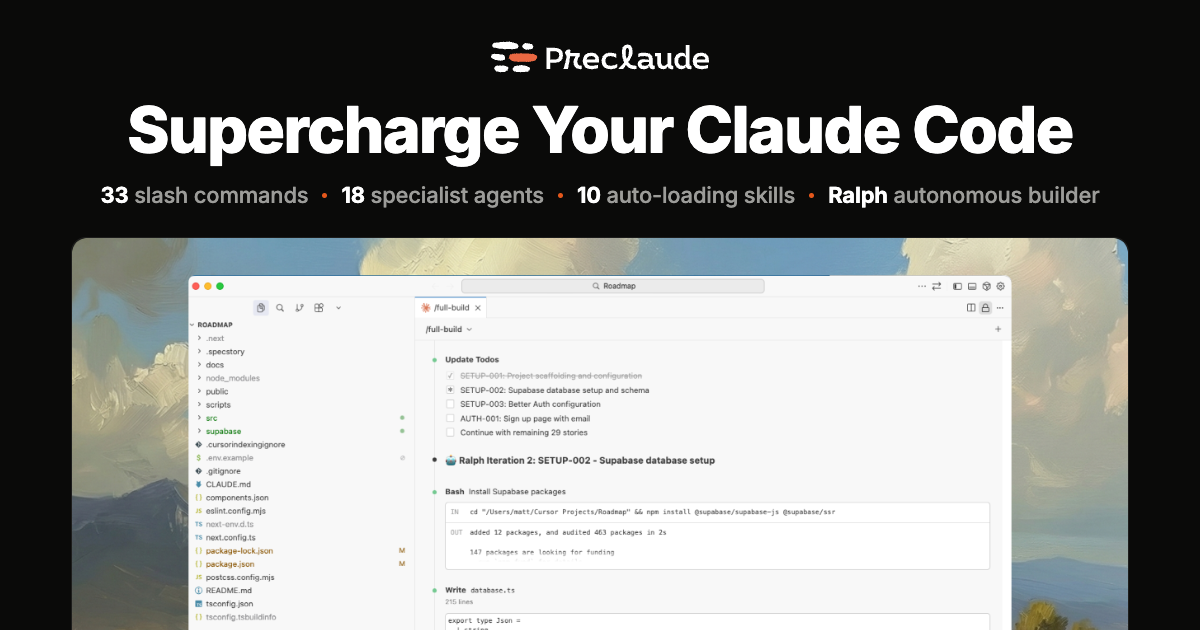
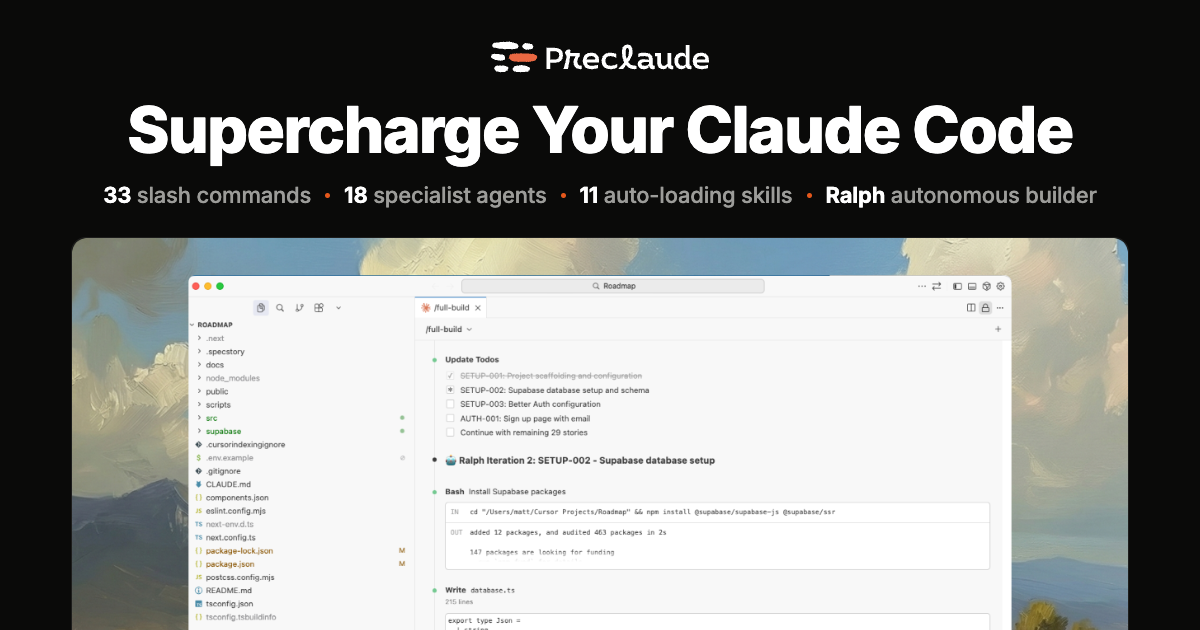
feat(skills): add fable-build — Fable 5 scaffolds, Opus/Sonnet build
New skill with two modes:
- Claude Code: Fable produces architecture, interface contracts, file
  skeletons and an atomic task plan, then delegates implementation to
  Opus/Sonnet subagents and reviews every diff against its contract
- API code: the Anthropic advisor tool (beta advisor-tool-2026-03-01) —
  a Sonnet/Opus executor consults a claude-fable-5 advisor
  mid-generation; reference.md carries the full parameter table,
  tested system-prompt blocks, caching/cost guidance and gotchas

Counts synced to 11 skills across README, landing (incl. new modal
entry), plugin manifests (v2.2.0) and the OG image.

Changed region(s): [[0.0617, 0.3016, 0.925, 0.3317]]

diff --git a/landing/app/page.tsx b/landing/app/page.tsx
@@ -997,13 +997,26 @@ const skills: Command[] = [
     whatItDoes: ["Configures the database adapter correctly", "Runs migrations with the right CLI", "Wires client and server halves properly"],
     example: '"Add authentication with Better Auth and Supabase"'
   },
+  {
+    name: "fable-build",
+    desc: "Fable 5 scaffolds the architecture, Opus/Sonnet carry out the build",
+    fullDescription: "A multi-model build pattern: Claude Fable 5 makes the decisions — architecture, interface contracts, file skeletons, atomic task plan — while Opus/Sonnet subagents type the implementation. Includes the Anthropic advisor-tool pattern for the same split in API code: a Sonnet/Opus executor consults a Fable 5 advisor mid-generation.",
+    whenToUse: ["\"Scaffold with Fable, build with Sonnet\"", "Features where planning quality matters more than who types the code", "Adding the advisor tool to a script or product"],
+    whatItDoes: [
+      "Fable produces contracts, skeletons, and an atomic task plan",
+      "Delegates tasks to Opus/Sonnet builders with explicit contracts",
+      "Reviews every diff against its contract before declaring done",
+      "In API code: advisor_20260301 with claude-fable-5 advising a claude-sonnet-5 executor"
+    ],
+    example: '"/fable-build add multi-tenant billing"\n# Fable scaffolds → sonnet builders implement → Fable reviews'
+  },
 ];
 
 // FAQ Data
 const faqs = [
   {
     question: "What is Preclaude?",
-    answer: "Preclaude is a pre-configured setup for Claude Code that includes 33 slash commands, 18 specialist agents, 10 auto-loading skills, and Ralph - an autonomous builder. It supercharges your Claude Code experience with production-ready workflows."
+    answer: "Preclaude is a pre-configured setup for Claude Code that includes 33 slash commands, 18 specialist agents, 11 auto-loading skills, and Ralph - an autonomous builder. It supercharges your Claude Code experience with production-ready workflows."
   },
   {
     question: "How do I install Preclaude?",
@@ -1031,7 +1044,7 @@ const faqs = [
   },
   {
     question: "What are the auto-loading skills?",
-    answer: "Ten packages of expertise Claude loads when the job matches: PRD generation, Ralph task conversion, project kickoff and completion, CLAUDE.md learning, marketing content, competitive landscape reports, browser-based visual verification (Playwright), and Better Auth setup with every gotcha handled."
+    answer: "Eleven packages of expertise Claude loads when the job matches: PRD generation, Ralph task conversion, project kickoff and completion, CLAUDE.md learning, marketing content, competitive landscape reports, browser-based visual verification (Playwright), Better Auth setup with every gotcha handled, and a multi-model build pattern where Fable 5 scaffolds and Opus/Sonnet carry out the build."
   },
   {
     question: "What is the marketing engine?",
@@ -1296,7 +1309,7 @@ export default function Home() {
               variants={fadeInUp}
               className="text-base sm:text-xl text-[#ADADA9] max-w-[780px] leading-relaxed px-2"
             >
-              33 slash commands, 18 specialist agents, 10 auto-loading skills, and Ralph autonomous builder — all pre-configured and ready to use.
+              33 slash commands, 18 specialist agents, 11 auto-loading skills, and Ralph autonomous builder — all pre-configured and ready to use.
             </motion.p>
 
             {/* Install Command */}
@@ -1571,7 +1584,7 @@ export default function Home() {
           >
             <motion.div variants={fadeInUp} className="text-center mb-10 sm:mb-16">
               <h2 className="text-2xl sm:text-4xl md:text-5xl font-bold mb-3 sm:mb-4 leading-[1.1]">
-                <span className="text-white">10</span> Auto-Loading Skills
+                <span className="text-white">11</span> Auto-Loading Skills
               </h2>
               <p className="text-base sm:text-xl text-[#ADADA9] max-w-2xl mx-auto">
                 Expertise Claude picks up by itself when the task matches — no command needed.

diff --git a/landing/app/layout.tsx b/landing/app/layout.tsx
@@ -18,7 +18,7 @@ const jetbrains = JetBrains_Mono({
 export const metadata: Metadata = {
   title: "Preclaude - Supercharge Your Claude Code",
   description:
-    "33 slash commands, 18 specialist agents, 10 auto-loading skills, and Ralph autonomous builder — all pre-configured and ready to use.",
+    "33 slash commands, 18 specialist agents, 11 auto-loading skills, and Ralph autonomous builder — all pre-configured and ready to use.",
   icons: {
     icon: "/favicon.png",
     apple: "/apple-icon.png",
@@ -26,7 +26,7 @@ export const metadata: Metadata = {
   openGraph: {
     title: "Preclaude - Supercharge Your Claude Code",
     description:
-      "33 slash commands, 18 specialist agents, 10 auto-loading skills, and Ralph autonomous builder — all pre-configured and ready to use.",
+      "33 slash commands, 18 specialist agents, 11 auto-loading skills, and Ralph autonomous builder — all pre-configured and ready to use.",
     type: "website",
     images: [
       {
@@ -41,7 +41,7 @@ export const metadata: Metadata = {
     card: "summary_large_image",
     title: "Preclaude - Supercharge Your Claude Code",
     description:
-      "33 slash commands, 18 specialist agents, 10 auto-loading skills, and Ralph autonomous builder — all pre-configured and ready to use.",
+      "33 slash commands, 18 specialist agents, 11 auto-loading skills, and Ralph autonomous builder — all pre-configured and ready to use.",
     images: ["/opengraph-image.png"],
   },
 };

diff --git a/skills/fable-build/reference.md b/skills/fable-build/reference.md
@@ -1,0 +1,98 @@
+# Advisor Tool — API Reference (for fable-build Mode B)
+
+Condensed from the official docs (platform.claude.com → agents-and-tools/tool-use/advisor-tool, fetched 2026-07). Beta: include header `advisor-tool-2026-03-01` (SDKs: `betas: ["advisor-tool-2026-03-01"]` on `client.beta.messages.*`).
+
+## Tool definition parameters
+
+| Parameter | Type | Default | Notes |
+|---|---|---|---|
+| `type` | string | *required* | Must be `"advisor_20260301"` |
+| `name` | string | *required* | Must be `"advisor"` |
+| `model` | string | *required* | Advisor model ID (e.g. `claude-fable-5`, `claude-opus-4-8`). Billed at this model's rates for the sub-inference |
+| `max_uses` | int | unlimited | Per-request cap. Exceeding it returns `advisor_tool_result_error` with `max_uses_exceeded`; the executor continues without advice |
+| `max_tokens` | int | advisor's output cap | Caps advisor output (thinking + text) per call. Min 1024. **Recommended: 2048** — ~7x less advisor output with near-zero truncation and no measured quality loss. The server tells the advisor its remaining budget so it shapes the response to fit. Truncation appends `[Advisor output truncated at max_tokens=N.]` and sets `stop_reason: "max_tokens"` on the result |
+| `caching` | object\|null | off | `{"type": "ephemeral", "ttl": "5m" \| "1h"}` — caches the advisor's own transcript across calls in a conversation. Breaks even at ~3 advisor calls; keep off for short tasks; never toggle mid-conversation |
+
+## Model compatibility (advisor must be ≥ executor)
+
+| Executor | Valid advisors |
+|---|---|
+| `claude-haiku-4-5`, `claude-sonnet-4-6` | Fable 5, Mythos 5, Opus 4.8/4.7/4.6, Sonnet 4.6 |
+| `claude-sonnet-5` | Fable 5, Mythos 5, Opus 4.8/4.7 |
+| `claude-opus-4-6` | Fable 5, Mythos 5, Opus 4.8/4.7/4.6 |
+| `claude-opus-4-7` / `claude-opus-4-8` | Fable 5, Mythos 5, Opus 4.8/4.7 |
+| `claude-fable-5` | Fable 5 only |
+
+Invalid pair → `400 invalid_request_error` naming the combination.
+
+## How a call works
+
+1. Executor emits `server_tool_use` with `name: "advisor"` and **empty `input`** (the executor signals timing; the server supplies context — nothing the executor puts in input reaches the advisor).
+2. Server runs the advisor model with its own Anthropic system prompt + the executor's full transcript (your system prompt, tools, prior turns, tool results, text so far).
+3. Result returns as an `advisor_tool_result` block; the executor continues. The advisor runs without tools; its thinking is dropped — only advice text reaches the executor.
+
+## Result variants
+
+| Variant | Fields | When |
+|---|---|---|
+| `advisor_result` | `text`, `stop_reason`* | Advisor returns plaintext (Opus/Sonnet advisors) |
+| `advisor_redacted_result` | `encrypted_content`, `stop_reason`* | **Fable 5 / Mythos 5 advisors** — opaque blob; the server decrypts it into the executor's prompt next turn |
+
+*`stop_reason` present only when `max_tokens` is set on the tool definition. Round-trip content verbatim on subsequent turns; branch on `content.type` if switching advisor models mid-conversation.
+
+## Errors (result-level; the request itself succeeds)
+
+`max_uses_exceeded` · `too_many_requests` (advisor rate-limited — draws from the advisor model's own bucket) · `overloaded` · `prompt_too_long` · `execution_time_exceeded` · `unavailable`. The executor sees the error and continues without advice. An executor rate limit, by contrast, fails the whole request with HTTP 429.
+
+## Multi-turn rules
+
+- Append the **full** assistant content (including `advisor_tool_result` blocks) back to `messages` each turn.
+- Omitting the advisor tool from `tools` while history contains advisor blocks → 400. To cap advisor spend conversation-wide: count calls client-side, then remove the tool **and** strip all `advisor_tool_result` blocks from history.
+- **`pause_turn`**: a response can end with `stop_reason: "pause_turn"` with a pending advisor call (a `server_tool_use` with no result). Resume by appending that assistant message unchanged and re-sending with the same tool + beta header — no user message or tool_result needed. If the executor also called one of your tools that turn, you get `stop_reason: "tool_use"` instead; send your `tool_result`s as usual and the pending advisor call runs at the start of the next request.
+
+## Tested system-prompt blocks (coding/agent executors)
+
+Prepend to the executor system prompt, before any other advisor mention:
+
+```text
+You have access to an `advisor` tool backed by a stronger reviewer model. It takes NO parameters — when you call advisor(), your entire conversation history is automatically forwarded. They see the task, every tool call you've made, every result you've seen.
+
+Call advisor BEFORE substantive work — before writing, before committing to an interpretation, before building on an assumption. If the task requires orientation first (finding files, fetching a source, seeing what's there), do that, then call advisor. Orientation is not substantive work. Writing, editing, and declaring an answer are.
+
+Also call advisor:
+- When you believe the task is complete. BEFORE this call, make your deliverable durable: write the file, save the result, commit the change.
+- When stuck — errors recurring, approach not converging, results that don't fit.
+- When considering a change of approach.
+
+On tasks longer than a few steps, call advisor at least once before committing to an approach and once before declaring done.
+```
+
+Followed directly by:
+
+```text
+Give the advice serious weight. If you follow a step and it fails empirically, or you have primary-source evidence that contradicts a specific claim, adapt. If you've already retrieved data pointing one way and the advisor points another: don't silently switch. Surface the conflict in one more advisor call — "I found X, you suggest Y, which constraint breaks the tie?"
+```
+
+Measured tuning notes:
+- **Haiku executors on coding workloads**: use the stronger variant with the hard rule ("your first write_file/edit_file/state-changing bash call must be preceded by an advisor call; read-only orientation doesn't count") — +7.5pp pass rate. Costs ~4pp on browse/lookup workloads, so gate on workload type.
+- **Nudge (mid-conversation reminder)**: if a Haiku executor hasn't called the advisor by turn 2, inject a user message reminding it (+~7pp on Haiku). No effect on Sonnet; **slightly harms Opus — never nudge Opus executors**. Don't combine the nudge with restraint language in the system prompt.
+- **Trim advisor output**: prepend to the user message: `(Advisor: please keep your guidance under 80 words — I need a focused starting point, not a comprehensive plan.)` Ask for ~80% of your true ceiling; also raises consult frequency but nets lower total cost.
+- **Forcing a consult**: `tool_choice: {"type": "tool", "name": "advisor"}` — cannot be combined with extended thinking (400).
+- **Effort pairing**: Sonnet executor at `medium` effort + Opus advisor ≈ Sonnet at default effort, at lower cost. For maximum intelligence keep the executor at default effort.
+
+## Billing
+
+Usage reports in `usage.iterations[]`: entries with `type: "advisor_message"` bill at the advisor model's rates; `type: "message"` at the executor's. Top-level `usage` reflects executor tokens only. Advisor output is typically 400–700 text tokens (1,400–1,800 incl. thinking) uncapped on light workloads; hard-reasoning tasks run 4,200–5,900 uncapped — hence `max_tokens: 2048`. Top-level `max_tokens` and task budgets do NOT bound advisor tokens.
+
+Current pricing context (per MTok, cached 2026-06): Fable 5 $10/$50 · Opus 4.8 $5/$25 · Sonnet 5 $3/$15 ($2/$10 intro to 2026-08-31) · Haiku 4.5 $1/$5.
+
+## Streaming
+
+The advisor sub-inference does not stream: the executor's stream pauses after the `server_tool_use` block closes (SSE pings ~every 30s during the pause), then the full `advisor_tool_result` arrives in one `content_block_start` event and executor output resumes. A `message_delta` follows with updated `usage.iterations`.
+
+## Availability and constraints
+
+- Claude API and Claude Platform on AWS only. **Not** on Amazon Bedrock, Google Vertex AI, or Microsoft Foundry.
+- The feature is ZDR-eligible, but **Fable 5 itself requires 30-day data retention** — a ZDR org gets 400s on any Fable request. Fall back to `claude-opus-4-8` as the advisor in that case.
+- `clear_thinking` with `keep` other than `"all"` shifts the advisor's quoted transcript each turn → advisor-side cache misses (cost only, not quality). Set `keep: "all"` if using advisor caching with extended thinking.
+- Composes with other tools (web search, code execution, custom tools) in the same `tools` array.

diff --git a/skills/fable-build/SKILL.md b/skills/fable-build/SKILL.md
@@ -1,0 +1,106 @@
+---
+name: fable-build
+description: Multi-model build pattern — Claude Fable 5 does the scaffolding (architecture, contracts, task plan) while Opus/Sonnet carry out the implementation, either as Claude Code subagents or via the Anthropic advisor tool in API code. Use when running /fable-build, when asked to "scaffold with Fable", "use Fable to plan and Sonnet to build", "add the advisor tool", "pair an executor with an advisor model", or when building a feature where planning quality matters more than who types the code.
+---
+
+# Fable Build — Scaffold with Fable, Build with Opus/Sonnet
+
+The most expensive model should make the decisions, not type the boilerplate. This skill implements that split two ways:
+
+- **Mode A — in Claude Code**: the session model (ideally Fable 5) produces the scaffold — architecture, interface contracts, file skeletons, atomic task plan — then delegates implementation to Opus/Sonnet subagents and reviews the result.
+- **Mode B — in API code**: when the deliverable is a script, pipeline, or product feature, use Anthropic's **advisor tool**: a Sonnet/Opus executor generates the bulk of the tokens and consults a Fable 5 advisor mid-generation for strategic guidance. You get close to Fable-solo quality at executor-model rates.
+
+Pick the mode by where the work runs: interactive repo work → Mode A; autonomous scripts, Ralph-style loops, or the user's own product → Mode B. Full API detail for Mode B lives in [reference.md](reference.md).
+
+---
+
+## Mode A: Fable scaffolds, subagents build (Claude Code)
+
+Scaffolding quality tracks the session model. If the session is not already on the most capable model available, say so before starting ("scaffolding benefits from the strongest model — consider `/model` to switch") but proceed either way.
+
+### Phase 1 — Scaffold (main session, no delegation)
+
+Produce four artifacts before any implementation:
+
+1. **Architecture decision** — 5–10 lines: the approach, the one alternative considered, why rejected. No essays.
+2. **Interface contracts** — the exact types/signatures/schemas at every seam between tasks (function signatures, API shapes, DB schema, component props). Contracts are the anti-drift mechanism: builders never invent interfaces.
+3. **File skeletons** — create the real files with imports, types, exported signatures, and `// TODO(builder): ...` bodies. Skeletons must typecheck (stub returns are fine).
+4. **Task plan** — atomic tasks, each: one clear deliverable, the files it owns, the contract it implements, a checkable acceptance criterion (test passes, typecheck clean, endpoint returns X). Sized like Ralph stories: describable in 2–3 sentences, ~30 min of focused work, no two tasks writing the same file.
+
+### Phase 2 — Delegate the build
+
+Dispatch each task to a subagent with an explicit model:
+
+- **`model: sonnet`** — the default builder for standard implementation.
+- **`model: opus`** — complex subsystems: concurrency, intricate algorithms, security-sensitive code, gnarly migrations.
+- **`model: haiku`** — only mechanical work (renames, fixture generation).
+
+Each task prompt must carry: the contract verbatim, the skeleton file paths, the acceptance criterion, and the instruction *"Implement exactly this contract. If the contract seems wrong, STOP and report back — do not redesign the interface."* Run independent tasks in parallel; dependency-ordered tasks in sequence. Builders that touch overlapping files get worktree isolation.
+
+### Phase 3 — Review and integrate (main session)
+
+The scaffolder verifies, never rubber-stamps:
+
+1. Run the project's checks (typecheck, lint, tests) after each wave of tasks.
+2. Diff each task's output against its contract. Interface drift is fixed by the scaffolder; logic bugs go back to a builder with the failure attached.
+3. Before declaring done, do one whole-system pass: does the assembled result actually satisfy the original request, not just the task list?
+
+### Escalation rules (both directions)
+
+Mirroring the advisor tool's measured best practices:
+
+- Builders consult the scaffolder **before their first substantive write** if anything about the contract is ambiguous — orientation is free, redesign is not.
+- Builders escalate when **stuck** (recurring errors, approach not converging) instead of thrashing.
+- On a conflict between what a builder found and what the scaffold says, **surface it explicitly** ("the contract says X, the existing code does Y — which wins?") rather than silently picking one.
+- The scaffolder makes a final review pass **after** deliverables are durable (files written, committed), not before.
+
+---
+
+## Mode B: the advisor tool (API code)
+
+When writing code that calls Claude — a build script, an autonomous loop, an AI feature — implement the same split natively with the **advisor tool**: the executor model calls `advisor` like any tool; the API runs a server-side sub-inference on the advisor model, which sees the full transcript and returns a plan or course-correction; the executor continues. One `/v1/messages` request, no extra round trips.
+
+### Minimal shape (TypeScript)
+
+```typescript
+const response = await client.beta.messages.create({
+  model: "claude-sonnet-5",                    // executor — types the code
+  max_tokens: 16000,
+  betas: ["advisor-tool-2026-03-01"],
+  tools: [
+    {
+      type: "advisor_20260301",
+      name: "advisor",
+      model: "claude-fable-5",                 // advisor — makes the decisions
+      max_tokens: 2048,                        // caps advisor output; ~7x cheaper, no quality loss
+    },
+    // ...your other tools
+  ],
+  messages: [{ role: "user", content: "Scaffold and build a worker pool with graceful shutdown." }],
+});
+```
+
+### The rules that matter
+
+- **Pairing**: the advisor must be at least as capable as the executor. `claude-fable-5` can advise every current executor (Haiku 4.5, Sonnet 4.6/5, Opus 4.6/4.7/4.8, Fable 5). Invalid pairs → 400.
+- **Fable advisors return `advisor_redacted_result`** (opaque `encrypted_content`, not readable text). Round-trip the block verbatim on later turns; the server decrypts it into the executor's prompt. Branch on `content.type` if you might switch advisor models.
+- **Multi-turn**: pass the full assistant content (including `advisor_tool_result` blocks) back on every turn. Dropping the advisor tool from `tools` while history contains advisor blocks → 400.
+- **Recommended defaults**: `max_tokens: 2048` on the tool definition; `caching: {type: "ephemeral", ttl: "5m"}` only when expecting 3+ advisor calls per conversation; prepend `"(Advisor: please keep your guidance under 80 words — I need a focused starting point, not a comprehensive plan.)"` to the user message to trim advisor output further.
+- **Prompt the executor to call it at the right times** — before substantive work, when stuck, before declaring done. Copy the tested system-prompt blocks from [reference.md](reference.md); they are measured, not vibes (Haiku +7.5pp with the hard-rule block; do NOT nudge Opus executors — it lowered their pass rates).
+- **Cost model**: advisor calls bill at the advisor's rates ($10/$50 per MTok for Fable 5) but produce only ~400–700 text tokens of advice; the executor generates the actual output at its rates (Sonnet 5 $3/$15). Read per-call usage from `usage.iterations[]` — top-level `usage` is executor-only.
+- **Availability**: Claude API and Claude Platform on AWS only (not Bedrock/Vertex/Foundry). Fable 5 requires 30-day data retention (orgs on ZDR get 400s) — fall back to `claude-opus-4-8` as the advisor if that blocks.
+
+For the full parameter table, error codes, pause_turn resumption, caching economics, the tested system-prompt blocks, and per-language snippets: read [reference.md](reference.md) before writing production code.
+
+---
+
+## Choosing executor/advisor pairs
+
+| Situation | Executor | Advisor |
+|---|---|---|
+| Default build loop | `claude-sonnet-5` | `claude-fable-5` |
+| Quality lift on an existing Sonnet workload at similar cost | `claude-sonnet-5` | `claude-opus-4-8` |
+| Hardest subsystems, executor needs more headroom | `claude-opus-4-8` | `claude-fable-5` |
+| High-volume cheap tasks stepping up in intelligence | `claude-haiku-4-5` | `claude-opus-4-8` |
+
+Skip the advisor entirely for single-turn Q&A (nothing to plan) and workloads where every turn genuinely needs the advisor's full capability (just run the big model as the executor).

diff --git a/README.md b/README.md
@@ -2,7 +2,7 @@
 
 ![Preclaude - Supercharge Your Claude Code](landing/public/opengraph-image.png)
 
-Supercharge Claude Code with 33 slash commands, 18 specialist agents, 10 auto-loading skills, and Ralph autonomous builder.
+Supercharge Claude Code with 33 slash commands, 18 specialist agents, 11 auto-loading skills, and Ralph autonomous builder.
 
 **Website:** [preclaude.com](https://preclaude.com)
 
@@ -94,9 +94,9 @@ After installation, **restart Claude Code** to load the new commands and agents.
 | `@ios-developer` | Swift, SwiftUI, native iOS development |
 | `@android-developer` | Kotlin, Jetpack Compose, native Android development |
 
-### 10 Agent Skills
+### 11 Agent Skills
 
-Auto-loading expertise Claude picks up when the task matches: `prd`, `prd-to-json`, `ralph`, `project-kickoff`, `project-complete`, `claude-md-learner`, `marketing-content`, `landscape-report`, `dev-browser` (visual verification via Playwright), and `better-auth` (auth setup with every gotcha handled).
+Auto-loading expertise Claude picks up when the task matches: `prd`, `prd-to-json`, `ralph`, `project-kickoff`, `project-complete`, `claude-md-learner`, `marketing-content`, `landscape-report`, `dev-browser` (visual verification via Playwright), `better-auth` (auth setup with every gotcha handled), and `fable-build` (Fable 5 scaffolds the architecture, Opus/Sonnet subagents carry out the build — with the Anthropic advisor-tool pattern for API code).
 
 ### Starter Hooks & MCP Template (opt-in)
 
